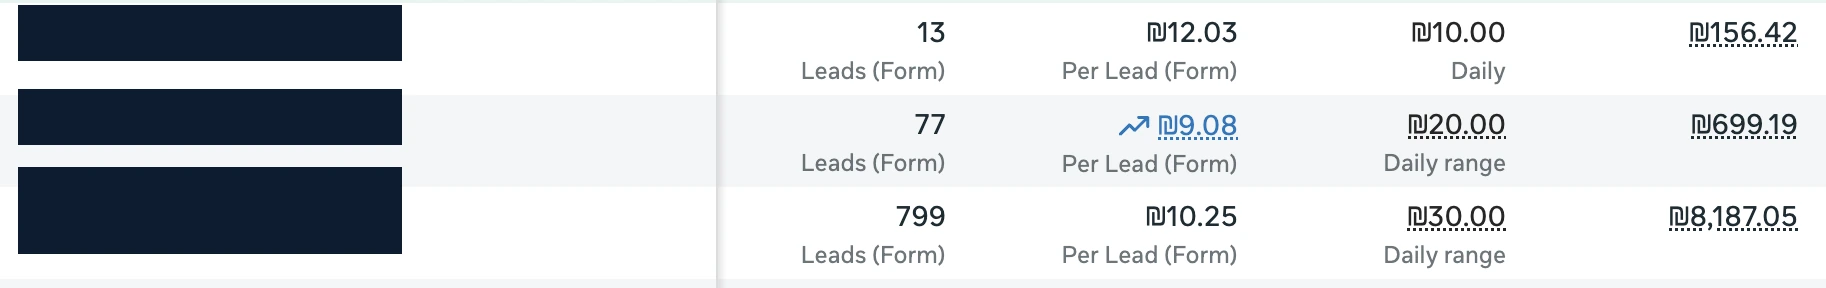
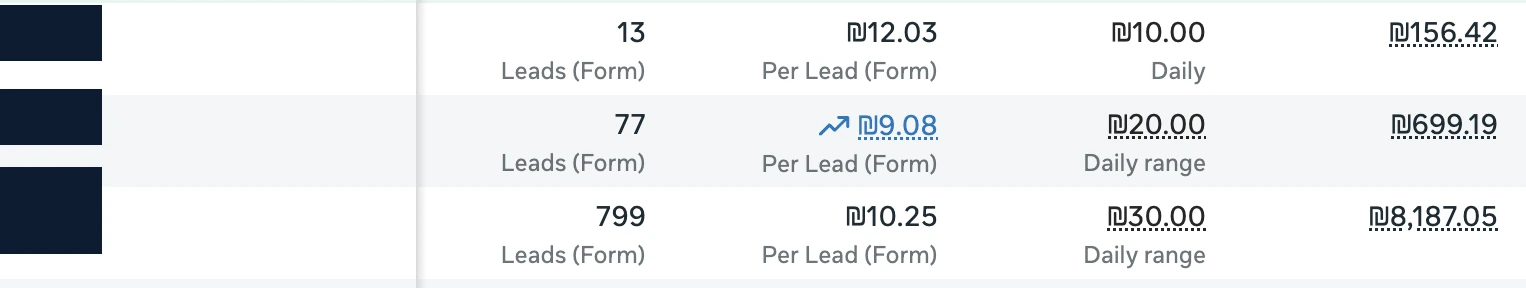
Stop turning shop enquiries away, and make the exports readable on a phone
The pages said outright that we do not do e-commerce. That is a door closed on
work that would in fact be taken, so the copy now states where the experience
is concentrated instead of what is refused, and the shop question invites a
conversation rather than ending one.

On a phone the Meta export opened on nothing but three redaction bars: the
blacked-out name column and the dead space behind it were 39% of the image
width, so the first number sat past the fold of the scroller. The image is
cropped from the left to a contiguous strip that still shows the bars, and the
scroller now fades its trailing edge and says it scrolls, so a cut-off table
reads as scrollable instead of broken. Intrinsic dimensions moved into the data
so the browser reserves the right box before the image decodes.

diff --git a/src/data/campaigns.ts b/src/data/campaigns.ts
@@ -37,6 +37,9 @@ export type Campaign = {
     title: string;
     lede: string;
     image: string;
+    /** Intrinsic size, so the browser reserves the right box before decode. */
+    w: number;
+    h: number;
     alt: string;
     stats: { v: string; l: string }[];
     note: string;
@@ -61,12 +64,12 @@ export const campaigns: Campaign[] = [
     title: "ניהול קמפיינים במטא",
     metaTitle: "ניהול קמפיינים בפייסבוק ואינסטגרם לעסקי שירות | שיו מדיה",
     metaDescription:
-      "ניהול קמפיינים במטא לעסקים שמוכרים שירות בישראל. אופטימיזציה שבועית, קריאייטיב שנבדק ומענה אישי ממי שמנהל את החשבון.",
+      "ניהול קמפיינים במטא לעסקים שחיים מפניות בישראל. אופטימיזציה שבועית, קריאייטיב שנבדק ומענה אישי ממי שמנהל את החשבון.",
     kicker: "מטא · פייסבוק ואינסטגרם",
     h1: "פניות מפייסבוק ואינסטגרם,",
     h1Accent: "לעסקי שירות בישראל.",
     lede:
-      "לעסקים שמוכרים שירות או חוויה, לא מוצר במשלוח. ניהול בלי מתווכים ובלי דוחות שאי אפשר להבין: אתם מדברים עם מי שמנהל את החשבון, ורואים כל חודש כמה פניות נכנסו.",
+      "לעסקים שחיים מפניות. ניהול בלי מתווכים ובלי דוחות שאי אפשר להבין: אתם מדברים עם מי שמנהל את החשבון, ורואים כל חודש כמה פניות נכנסו.",
     doing: [
       {
         title: "איך הקמפיין בנוי",
@@ -109,6 +112,8 @@ export const campaigns: Campaign[] = [
       title: "שלושה קמפיינים, חשבון אחד",
       lede: "זה מנהל המודעות של לקוח פעיל, בלי שינוי בנתונים. שמות הקמפיינים מושחרים כי הם מסגירים את הלקוח.",
       image: "meta-campaigns",
+      w: 1526,
+      h: 288,
       alt: "שלוש שורות ממנהל המודעות של מטא: 13 פניות בעלות 12.03 שקלים, 77 פניות בעלות 9.08 שקלים ו-799 פניות בעלות 10.25 שקלים",
       stats: [
         { v: "889", l: "פניות" },
@@ -140,7 +145,7 @@ export const campaigns: Campaign[] = [
       },
       {
         q: "איזה סוג עסקים אתם מנהלים?",
-        a: "כל עסק שהמטרה שלו היא פנייה ולא מכירה בעגלת קניות: בעלי מקצוע, קליניקות ומטפלים, יועצים ומאמנים, תיירות ופנאי, ריטריטים סדנאות וקורסים. מה שאנחנו לא עושים זה מסחר אלקטרוני.",
+        a: "רוב הלקוחות שלנו הם עסקים שחיים מפניות: בעלי מקצוע, קליניקות ומטפלים, יועצים ומאמנים, תיירות ופנאי, ריטריטים סדנאות וקורסים. אם אתם משהו אחר, שווה בכל זאת לדבר.",
       },
       {
         q: "אתם עובדים גם עם עסקים קטנים?",
@@ -154,12 +159,12 @@ export const campaigns: Campaign[] = [
     title: "ניהול קמפיינים בגוגל",
     metaTitle: "ניהול קמפיינים ממומנים בגוגל לעסקי שירות | שיו מדיה",
     metaDescription:
-      "ניהול Google Ads לעסקים שמוכרים שירות. חיפוש לפי כוונה, מילות מפתח שליליות, שיחות ישירות מהמודעה ואופטימיזציה שבועית. לא עושים מסחר אלקטרוני.",
+      "ניהול Google Ads לעסקים שחיים מפניות. חיפוש לפי כוונה, מילות מפתח שליליות, שיחות ישירות מהמודעה ואופטימיזציה שבועית.",
     kicker: "גוגל · חיפוש ושיחות",
     h1: "כשמישהו מחפש את השירות שלכם,",
     h1Accent: "שיראה אתכם ראשונים.",
     lede:
-      "ניהול קמפיינים בגוגל לעסקים שמוכרים שירות, לא מוצרים בחנות אונליין. כל מה שאנחנו יודעים מכוון לדבר אחד, להביא פנייה.",
+      "ניהול קמפיינים בגוגל לעסקים שחיים מפניות. כל מה שאנחנו יודעים מכוון לדבר אחד: שמי שמחפש את השירות שלכם עכשיו יגיע אליכם ולא למתחרה.",
     doing: [
       {
         title: "איפה הכסף עובד",
@@ -191,8 +196,8 @@ export const campaigns: Campaign[] = [
     edge: [
       ...SHARED_EDGE,
       {
-        title: "לידים, לא חנויות",
-        body: "אנחנו לא עושים מסחר אלקטרוני. כל מה שאנחנו מנהלים הוא קמפיינים שהמטרה שלהם היא פנייה, שיחה או הרשמה, ולא עגלת קניות. זה מיקוד צר בכוונה, וזו הסיבה שאנחנו יודעים איך נראה חיפוש של מישהו שמחפש שירות עכשיו.",
+        title: "המומחיות היא בפניות",
+        body: "רוב מה שאנחנו מנהלים הוא קמפיינים שהמטרה שלהם פנייה, שיחה או הרשמה. שם צברנו את הניסיון, ושם אנחנו יודעים בדיוק איך נראה חיפוש של מישהו שצריך שירות עכשיו ומה מפריד בינו לבין הטלפון.",
       },
     ],
     process: [
@@ -206,6 +211,8 @@ export const campaigns: Campaign[] = [
       title: "עשרה חודשים של ניהול רצוף",
       lede: "מסך הביצועים של חשבון פעיל, מסוף ספטמבר עד אמצע אוגוסט. שם החשבון והקמפיינים לא מופיעים בתמונה.",
       image: "google-performance",
+      w: 1804,
+      h: 435,
       alt: "מסך ביצועים של גוגל אדס: 27.8 אלף קליקים, 349 אלף חשיפות, עלות ממוצעת לקליק 0.48 שקלים",
       stats: [
         { v: "27.8K", l: "קליקים" },
@@ -221,11 +228,11 @@ export const campaigns: Campaign[] = [
       },
       {
         q: "איזה סוג עסקים אתם מנהלים?",
-        a: "כל עסק שהמטרה שלו היא פנייה, שיחה או הרשמה ולא מכירה בעגלת קניות: בעלי מקצוע, קליניקות ומטפלים, יועצים ומאמנים, תיירות ופנאי, קורסים וסדנאות. הכלים בחיפוש דומים מאוד בין התחומים, מה שמשתנה זה שפת החיפוש.",
+        a: "רוב הלקוחות שלנו הם עסקים שחיים מפניות: בעלי מקצוע, קליניקות ומטפלים, יועצים ומאמנים, תיירות ופנאי, קורסים וסדנאות. הכלים בחיפוש דומים מאוד בין התחומים, מה שמשתנה זה שפת החיפוש.",
       },
       {
-        q: "אתם עושים גם קמפיינים לחנויות אונליין?",
-        a: "לא. אנחנו מנהלים רק קמפיינים שהמטרה שלהם פנייה: שירות, ייעוץ, טיפול, ריטריט או קורס. אם אתם חנות שמוכרת מוצרים במשלוח, נעדיף להפנות אתכם למישהו שזה התחום שלו במקום ללמוד עליכם על חשבונכם.",
+        q: "יש לי חנות אונליין, זה מתאים?",
+        a: "רוב הניסיון שלנו הוא בקמפיינים שמטרתם פנייה ולא מכירה בעגלת קניות, ולכן שם נביא לכם הכי הרבה ערך. אם יש לכם חנות, דברו איתנו: נסתכל על מה שאתם צריכים ונגיד בכנות אם אנחנו האנשים הנכונים לזה.",
       },
       {
         q: "כמה תקציב צריך?",
